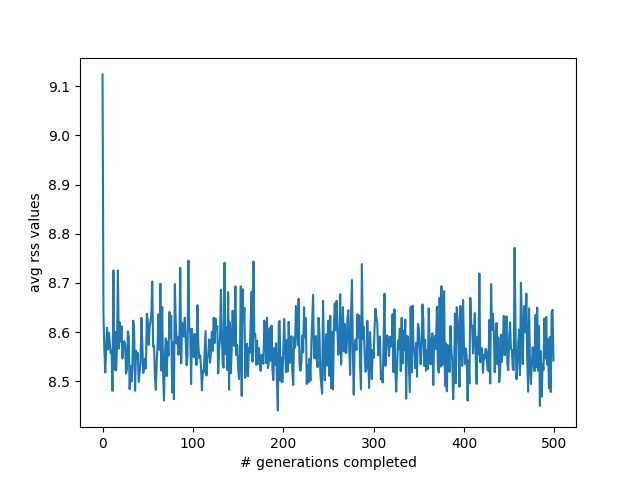
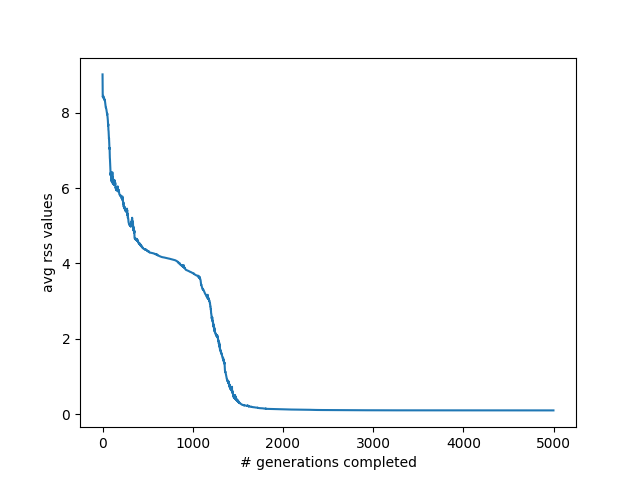
finished evolved neural nets

diff --git a/evolved_neural_net.py b/evolved_neural_net.py
@@ -3,6 +3,7 @@ import random
 import itertools
 import numpy as np
 import matplotlib.pyplot as plt
+import time
 
 data_set = [(0.0 , 7) , (0.2 , 5.6) , (0.4 , 3.56) , (0.6 , 1.23) , (0.8 , -1.03) ,
 (1.0 , -2.89) , (1.2 , -4.06) , (1.4 , -4.39) , (1.6 , -3.88) , (1.8 , -2.64) ,
@@ -182,9 +183,31 @@ def get_sorted_by_rss_nets(neural_nets):
 
     return (sorted(population_list_of_tuples, key = lambda x: x[1]))
 
+
+x_values = []
+
+
+for n in range(1):
+    for num in range(0, 101):
+        x_values.append(n + num * 0.01)
+
+
 def run(num_generations): 
     avg_rss_values = []
     first_gen = make_first_gen(30)
+    plt.scatter([point[0] for point in normalized_data], [point[1] for point in normalized_data])
+
+    for neural_net in first_gen:
+
+        initial_predicted_values = []
+
+        for x in x_values:
+            neural_net.build_neural_net(x)
+            initial_predicted_values.append(neural_net.get_node(24).node_output)
+
+        plt.plot([x for x in x_values], initial_predicted_values, color="red")
+
+
 
     avg_rss_values.append(get_avg_rss_value(first_gen, normalized_data))
 
@@ -192,18 +215,37 @@ def run(num_generations):
     parents = [x for x, y in sorted_tuple_list[:15]]
 
     for _ in range(num_generations - 1):
-        current_gen = make_new_gen(parents)
+        current_gen = make_new_gen(parents) + parents
         avg_rss_values.append(get_avg_rss_value(current_gen, normalized_data))
-
-        sorted_tuple_list = get_sorted_by_rss_nets(first_gen)
+        sorted_tuple_list = get_sorted_by_rss_nets(current_gen)
         parents = [x for x, y in sorted_tuple_list[:15]]
+
+    for neural_net in current_gen:
+
+        final_predicted_values = []
+
+        for x in x_values:
+            neural_net.build_neural_net(x)
+            final_predicted_values.append(neural_net.get_node(24).node_output)
+
+        plt.plot([x for x in x_values], final_predicted_values, color="blue")
+        plt.xlabel('x')
+        plt.ylabel('predicted values')
+    plt.savefig('initial_vs_final_neural_nets.png')
+    plt.clf()
 
     return avg_rss_values
 
 
-avg_values = run(500)
+
+start_time = time.time()
+num_generations = 5000
+avg_values = run(num_generations)
 print(avg_values)
-plt.plot([x for x in range(500)], avg_values)
+plt.plot([x for x in range(num_generations)], avg_values)
 plt.xlabel('# generations completed')
 plt.ylabel('avg rss values')
 plt.savefig('avg_rss_evolved_neural_net.png')
+print(time.time() - start_time)
+
+
